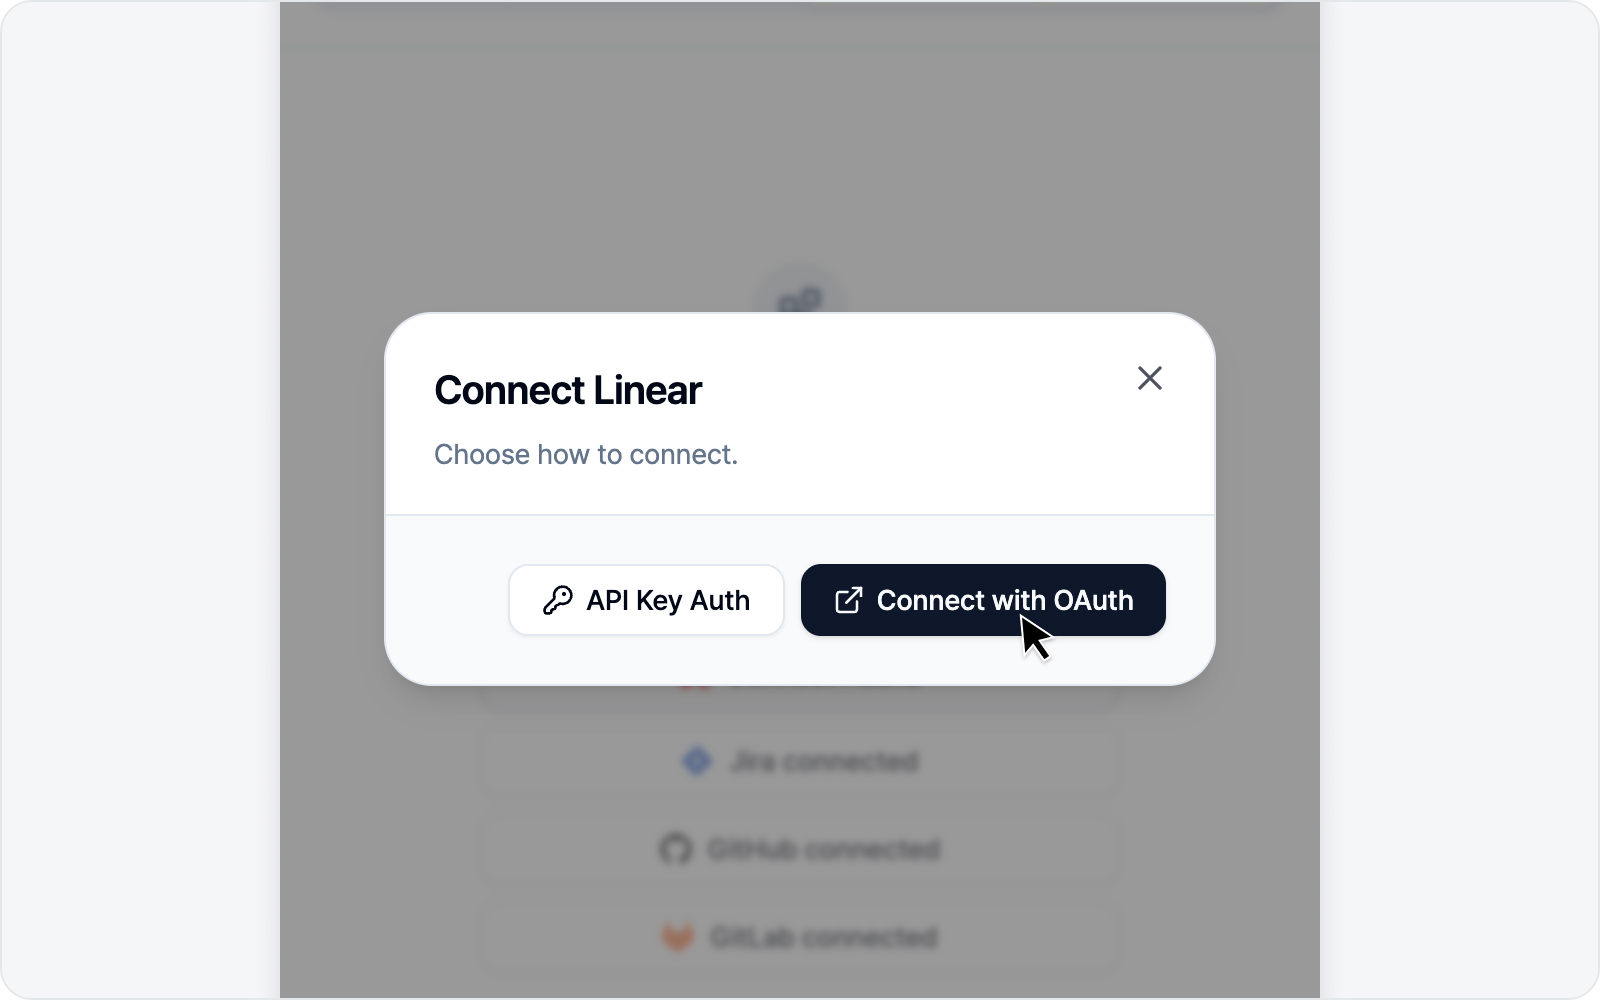
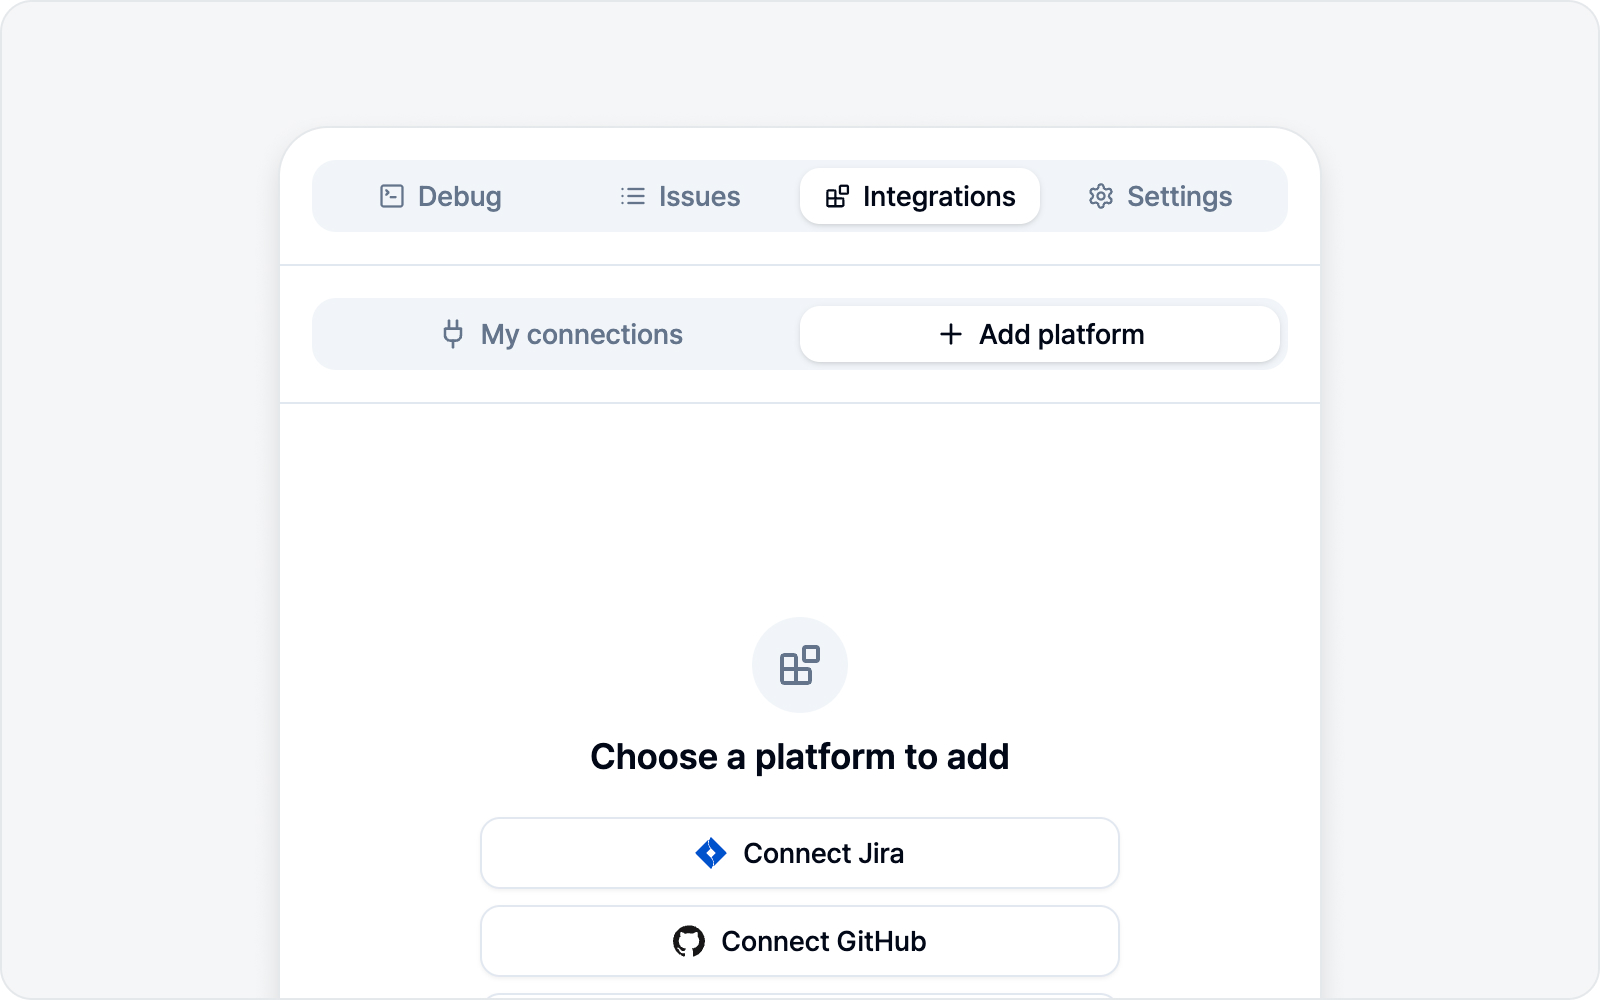
docs(guide): remap integrations screenshots to overview + platforms
Renumbered source images: integrations overview (README) now uses the
Add-platform view (2.1.1), and platforms uses the connect dialog (2.2.1)
and My connections defaults (2.2.2). Drop the orphaned 2.1.2 asset.
issue-tracking still on dummy (no images yet).

diff --git a/guide/en/integrations/platforms.md b/guide/en/integrations/platforms.md
@@ -10,7 +10,7 @@ It's simpler than it sounds — three steps and you're done.
 2. When the connect-method dialog appears, choose **OAuth** (browser login) or **enter a token** directly.
 3. With OAuth, just approve access in the login window. With a token, paste the token you generated along with any required fields.
 
-![Connect-method dialog](../assets/2.1.1.jpg)
+![Connect-method dialog](../assets/2.2.1.jpg)
 
 OAuth is usually the easiest. That said, if your org policy blocks OAuth or you'd rather use a token, the token method works just as well.
 
@@ -31,7 +31,7 @@ OAuth is usually the easiest. That said, if your org policy blocks OAuth or you'
 
 Once connected, you can pick a default location for new issues — a project for Jira/GitLab, a repository for GitHub, a team for Linear, a database for Notion, a project for Asana. Set it once and you won't have to choose it every time you write an issue, which saves a lot of clicks.
 
-![Setting defaults after connecting](../assets/2.1.2.jpg)
+![Setting defaults after connecting](../assets/2.2.2.jpg)
 
 ## Disconnecting
 

diff --git a/guide/ko/integrations/platforms.md b/guide/ko/integrations/platforms.md
@@ -10,7 +10,7 @@
 2. 연결 방식 선택 다이얼로그가 뜨면 **OAuth**(브라우저 로그인) 또는 **토큰 직접 입력** 중 하나를 고릅니다.
 3. OAuth면 로그인 창에서 권한을 허용하면 끝, 토큰 방식이면 발급한 토큰과 필요한 값을 입력합니다.
 
-![연결 방식 선택 다이얼로그](../assets/2.1.1.jpg)
+![연결 방식 선택 다이얼로그](../assets/2.2.1.jpg)
 
 대부분은 OAuth가 가장 편합니다. 다만 조직 정책으로 OAuth를 못 쓰거나 토큰을 선호하신다면 토큰 방식을 쓰면 됩니다.
 
@@ -31,7 +31,7 @@
 
 연결하면 그 플랫폼에서 이슈를 만들 위치의 기본값을 골라 둘 수 있습니다 — Jira·GitLab의 프로젝트, GitHub의 저장소, Linear의 팀, Notion의 데이터베이스, Asana의 프로젝트처럼요. 한 번만 정해 두면 이슈를 쓸 때마다 다시 고르지 않아도 되니 한결 편합니다.
 
-![연결 후 기본값 설정](../assets/2.1.2.jpg)
+![연결 후 기본값 설정](../assets/2.2.2.jpg)
 
 ## 연결 해제
 

diff --git a/guide/en/integrations/README.md b/guide/en/integrations/README.md
@@ -4,7 +4,7 @@ A report you worked on only truly shines once it reaches the issue tracker your 
 
 With no platform connected yet, the side panel takes you to this **Integrations** tab automatically. No pressure — just start by connecting one.
 
-![Integrations tab](../assets/dummy.jpg)
+![Integrations tab](../assets/2.1.1.jpg)
 
 ## Jump to
 

diff --git a/guide/ko/integrations/README.md b/guide/ko/integrations/README.md
@@ -4,7 +4,7 @@
 
 아직 연결된 플랫폼이 하나도 없으면 사이드패널이 자동으로 이 **연동** 탭으로 안내해 드립니다. 부담 없이, 플랫폼 하나 연결하는 것으로 시작해 보세요.
 
-![연동 탭](../assets/dummy.jpg)
+![연동 탭](../assets/2.1.1.jpg)
 
 ## 바로가기
 